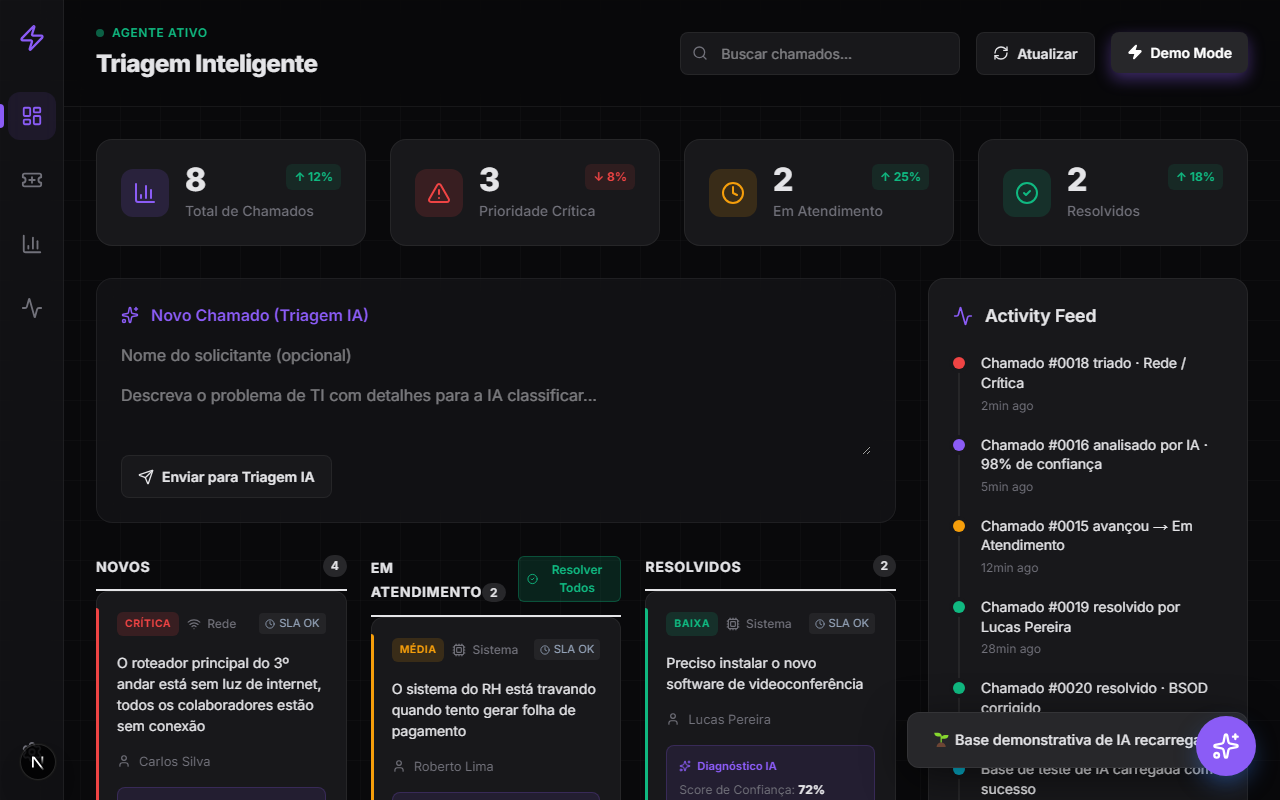
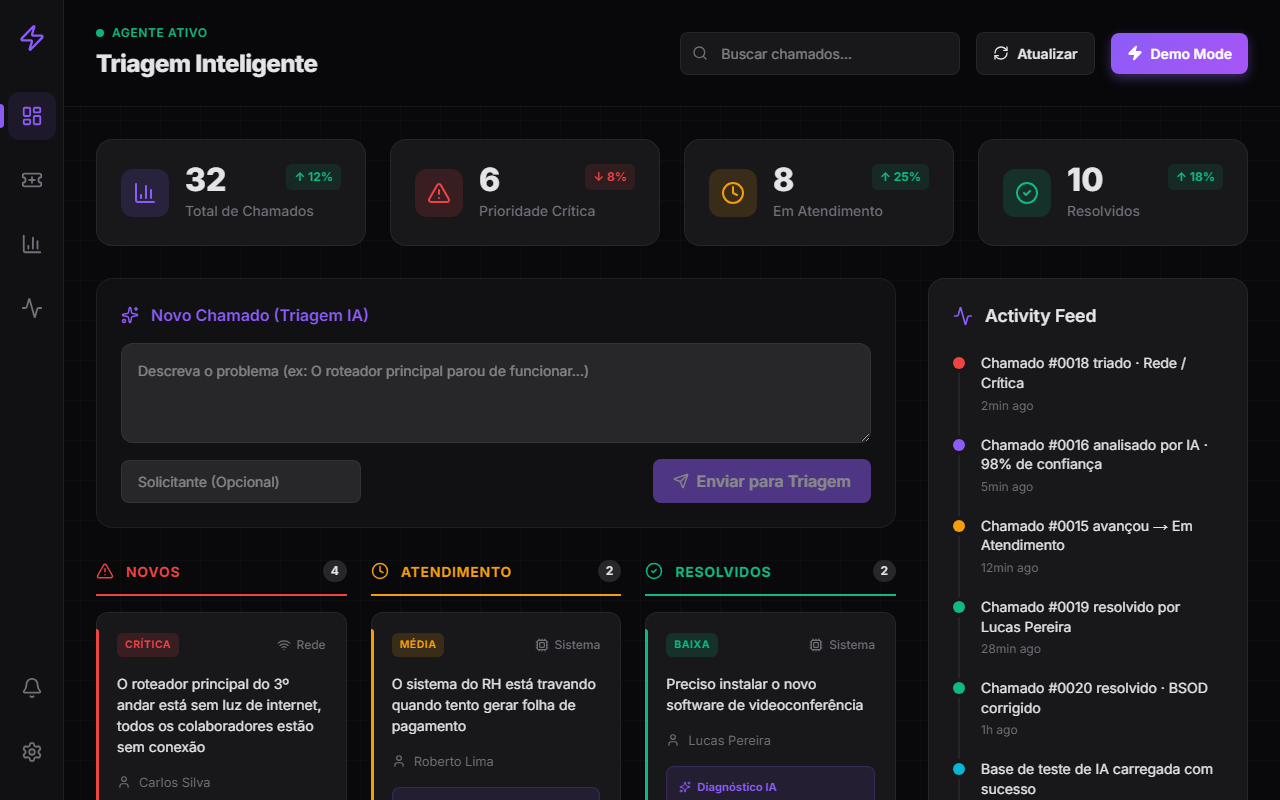
docs: update latest high-res dashboard screenshot and quick start guide

diff --git a/README.md b/README.md
@@ -46,6 +46,15 @@ graph TD
 
 ---
 
+## 🛠️ Quick Start & Live Demo
+
+### ⚡ 1-Command Live Integrated Demo (Instant Test)
+Want to test the NLP Triage Engine, ITIL SLA Calculator & Database Persistence immediately?
+```bash
+cd backend
+python run_demo_real.py
+```
+
 ## 🐳 Docker Compose Deployment & Management
 
 The platform is enterprise-ready and packaged with Docker Compose for seamless deployment across development, staging, and production environments.